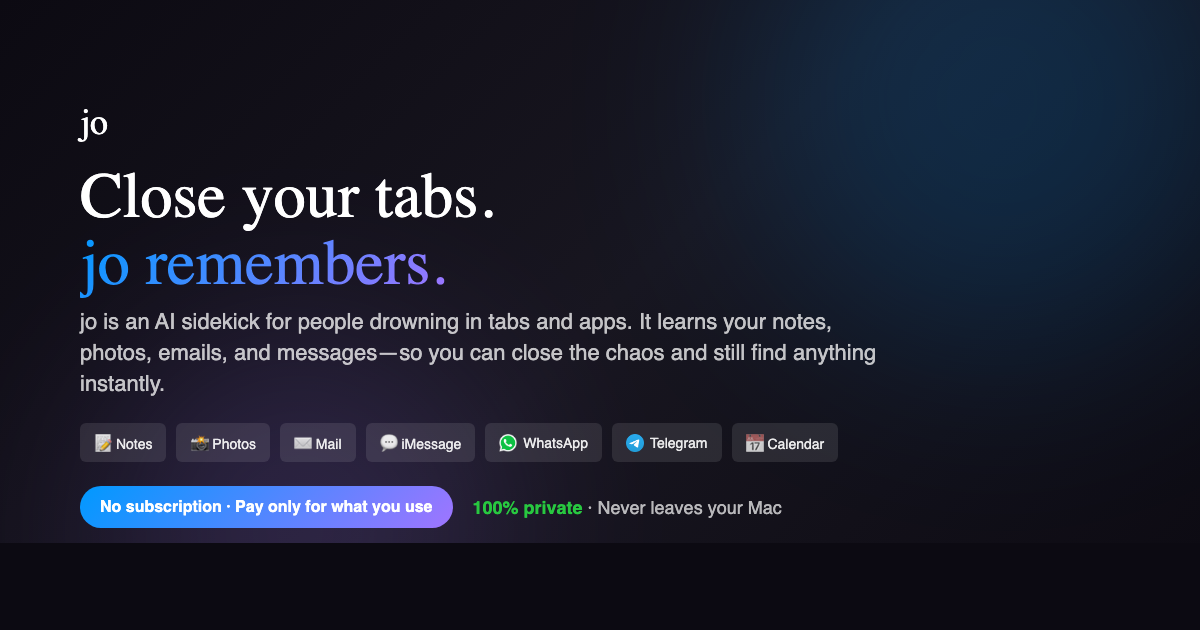
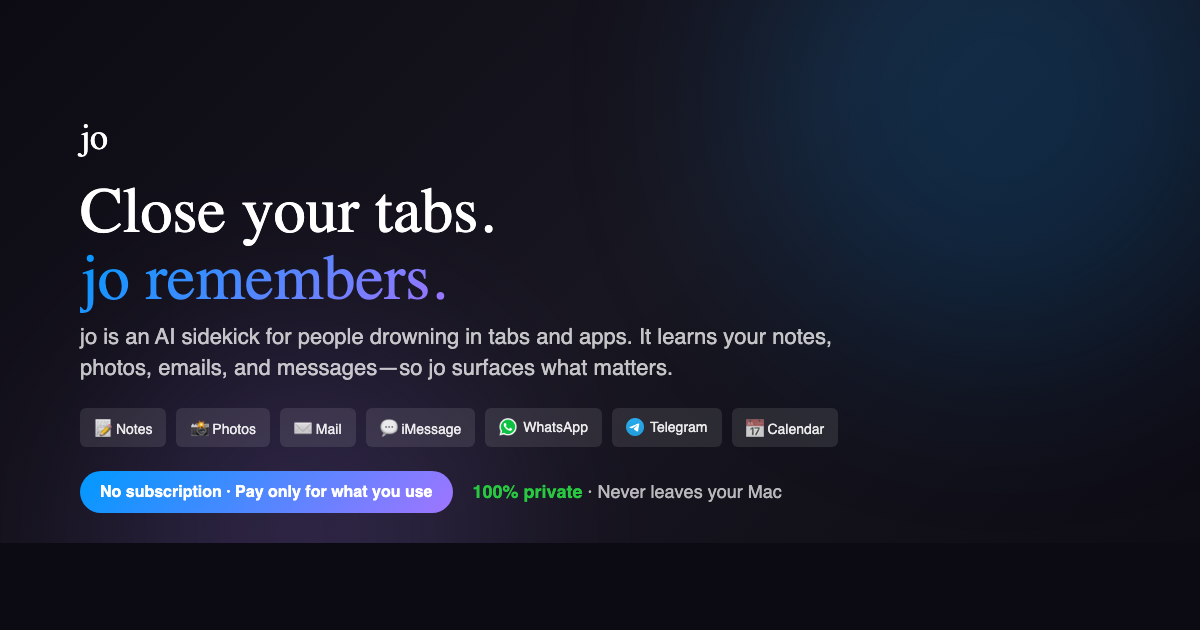
OG image: proactive ending "so jo surfaces what matters"

diff --git a/og-image-v7.html b/og-image-v7.html
@@ -160,7 +160,7 @@
                 Close your tabs.<br>
                 <span class="gradient">jo remembers.</span>
             </h1>
-            <p class="tagline">jo is an AI sidekick for people drowning in tabs and apps. It learns your notes, photos, emails, and messages—so you can close the chaos and still find anything instantly.</p>
+            <p class="tagline">jo is an AI sidekick for people drowning in tabs and apps. It learns your notes, photos, emails, and messages—so jo surfaces what matters.</p>
 
             <div class="app-badges">
                 <span class="app-badge">📝 Notes</span>
